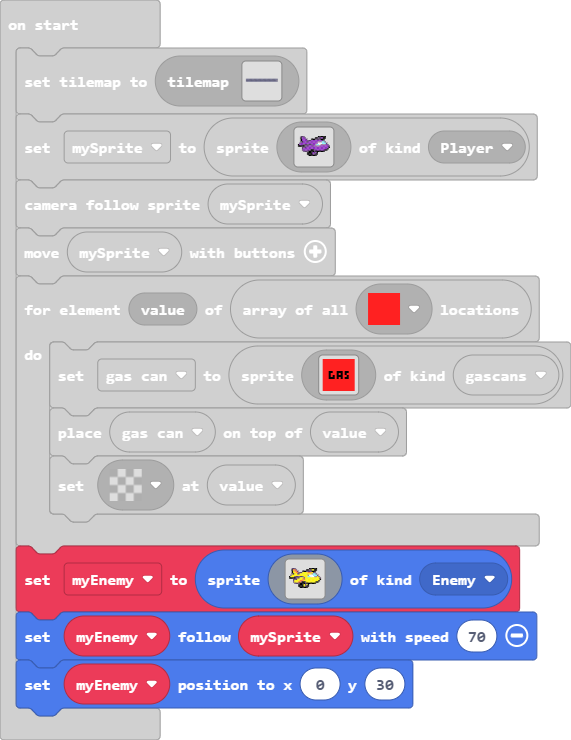
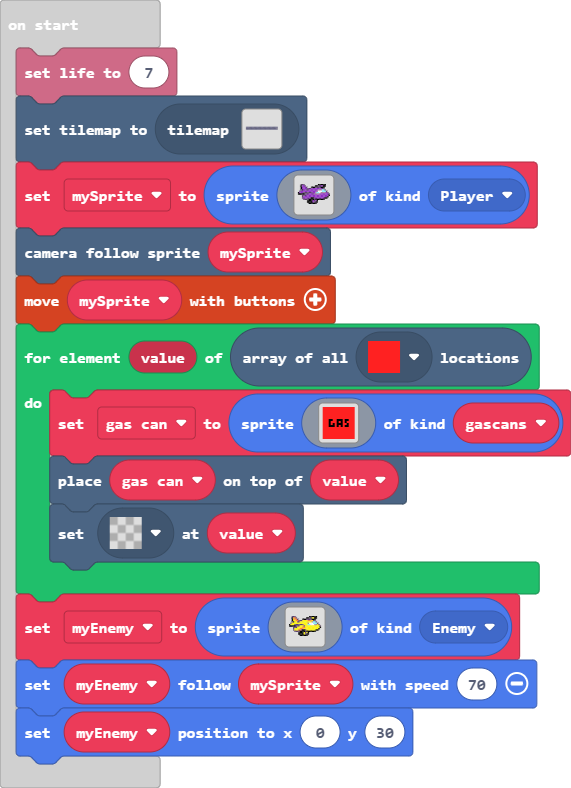
fff

diff --git a/main.ts b/main.ts
@@ -19,6 +19,7 @@ scene.onOverlapTile(SpriteKind.Player, sprites.castle.tilePath8, function (sprit
     game.setGameOverEffect(true, effects.confetti)
 })
 let gas_can: Sprite = null
+info.setLife(7)
 tiles.setCurrentTilemap(tilemap`level1`)
 let mySprite = sprites.create(img`
     ..ccc..........ffffff...
